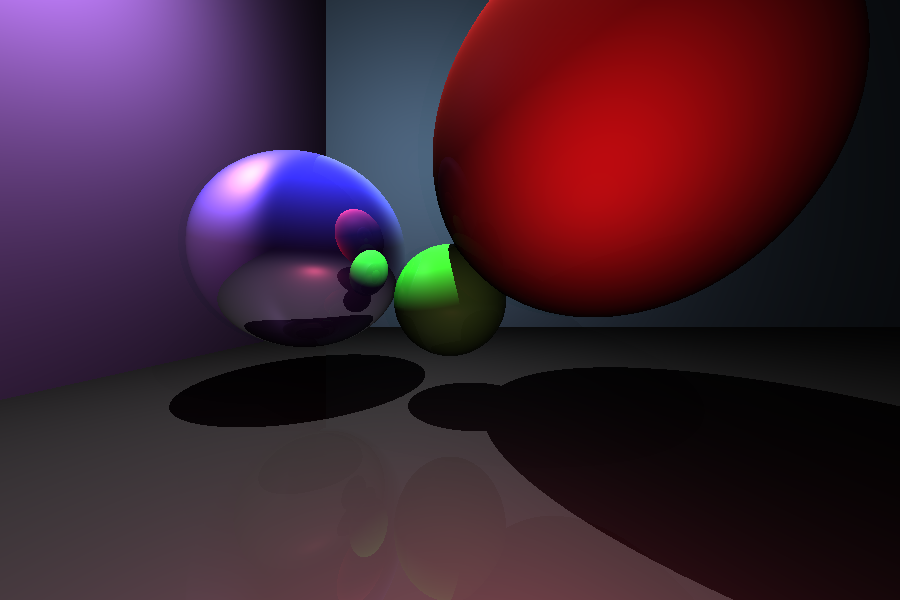
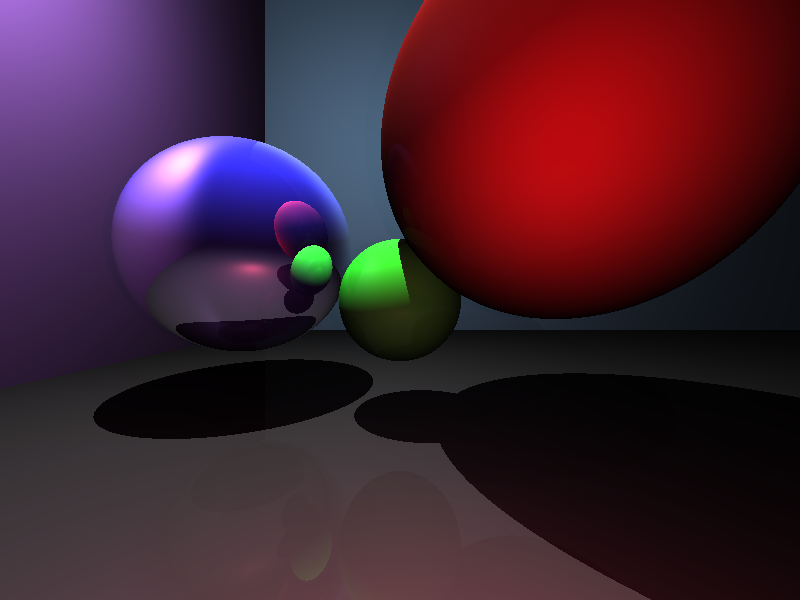
Added camera positioning

diff --git a/src/main/java/ca/retrylife/ics4u/rayzor/Scene.java b/src/main/java/ca/retrylife/ics4u/rayzor/Scene.java
@@ -25,7 +25,9 @@ public class Scene {
 
     // Scene sizing
     public Dimension size;
-    public double fov;
+
+    // Rendering camera
+    public Camera camera;
 
     // Scene objects
     ArrayList<SceneObject> objects = new ArrayList<>();
@@ -35,12 +37,12 @@ public class Scene {
      * Create a scene of a specific size with pre-defined objects
      * 
      * @param size    Scene size
-     * @param fov     Scene FOV
+     * @param cam     Scene Camera
      * @param lights  Scene light sources
      * @param objects Renderable objects for scene
      */
-    public Scene(Dimension size, double fov, Light[] lights, SceneObject... objects) {
-        this(size, fov);
+    public Scene(Dimension size, Camera cam, Light[] lights, SceneObject... objects) {
+        this(size, cam);
 
         // Add all objects
         this.objects.addAll(Arrays.asList(objects));
@@ -52,11 +54,11 @@ public class Scene {
      * Create a scene of a specific size with pre-defined objects
      * 
      * @param size    Scene size
-     * @param fov     Scene FOV
+     * @param cam     Scene Camera
      * @param objects Renderable objects for scene
      */
-    public Scene(Dimension size, double fov, SceneObject... objects) {
-        this(size, fov);
+    public Scene(Dimension size, Camera cam, SceneObject... objects) {
+        this(size, cam);
 
         // Add all objects
         this.objects.addAll(Arrays.asList(objects));
@@ -67,13 +69,13 @@ public class Scene {
      * Create a scene of a specific size
      * 
      * @param size Scene size
-     * @param fov  Scene FOV
+     * @param cam  Scene Camera
      */
-    public Scene(Dimension size, double fov) {
+    public Scene(Dimension size, Camera cam) {
 
         // Set locals
         this.size = size;
-        this.fov = fov;
+        this.camera = cam;
 
     }
 

diff --git a/src/main/java/ca/retrylife/ics4u/rayzor/lighting/Ray.java b/src/main/java/ca/retrylife/ics4u/rayzor/lighting/Ray.java
@@ -1,5 +1,6 @@
 package ca.retrylife.ics4u.rayzor.lighting;
 
+import ca.retrylife.ics4u.rayzor.Camera;
 import ca.retrylife.ics4u.rayzor.Scene;
 import ca.retrylife.libvec.Vector3;
 
@@ -42,7 +43,7 @@ public class Ray {
         double aspectRatio = (double) scene.size.getWidth() / (double) scene.size.getHeight();
 
         // Determine FOV adjustment factor
-        double fovAdjustment = Math.tan(Math.toRadians(scene.fov) / 2.0);
+        double fovAdjustment = Math.tan(Math.toRadians(scene.camera.fov) / 2.0);
 
         // Add .5 to our pixel position, and cast to a double. This will cause the ray
         // to pass through the center of the pixel, rather than it's edge
@@ -52,6 +53,10 @@ public class Ray {
         // Convert the scene width from pixels [0-800] to percentage [0.0-1.0]
         double sensorX = pixelCentreX / (double) scene.size.getWidth();
         double sensorY = pixelCentreY / (double) scene.size.getHeight();
+
+        // Adjust sensor coords by the camera pose
+        sensorX += scene.camera.x;
+        sensorY -= scene.camera.y;
 
         // Adjust the sensor
         // Y is now flipped, so positive is up
@@ -63,10 +68,10 @@ public class Ray {
         sensorY *= fovAdjustment;
 
         // Create a direction vector
-        Vector3 directionVector = new Vector3(sensorX, sensorY, -1.0);
+        Vector3 directionVector = new Vector3(sensorX, sensorY, -1.0 + scene.camera.z);
 
         // Return the newly generated ray
-        return new Ray(new Vector3(0, 0, 0), directionVector.normalize());
+        return new Ray(new Vector3(scene.camera.x, scene.camera.y, scene.camera.z), directionVector.normalize());
     }
 
     /**

diff --git a/src/main/java/ca/retrylife/ics4u/rayzor/Camera.java b/src/main/java/ca/retrylife/ics4u/rayzor/Camera.java
@@ -1,0 +1,34 @@
+package ca.retrylife.ics4u.rayzor;
+
+import ca.retrylife.libvec.Vector3;
+
+public class Camera extends Vector3 {
+
+    /**
+     * Camera Field Of View
+     */
+    public double fov;
+
+    /**
+     * Create a camera at [0,0,0]
+     * @param fov Camera FOV
+     */
+    public Camera(double fov) {
+        this(0,0,0, fov);
+    }
+
+    /**
+     * Create a camera at a specific position
+     * 
+     * @param x   X pos
+     * @param y   Y pos
+     * @param z   Z pos
+     * @param fov Camera FOV
+     */
+    public Camera(double x, double y, double z, double fov) {
+        super(x, y, z);
+
+        this.fov = fov;
+    }
+
+}

diff --git a/src/main/java/ca/retrylife/ics4u/rayzor/App.java b/src/main/java/ca/retrylife/ics4u/rayzor/App.java
@@ -17,7 +17,8 @@ public class App implements Runnable {
 
     Scene scene;
 
-    // Balls world
+    // World setting
+    // This can be switched out with any class that implements IScene.
     IScene world = new Balls();
 
     public static void main(String[] args) {
@@ -37,11 +38,10 @@ public class App implements Runnable {
         // 1920 x 1080
         // 4K
         // 16K: 15360 x 8640
-        scene = new Scene(new Dimension(800, 600), 95.0);
+        scene = new Scene(new Dimension(800, 600), new Camera(90.0));
 
         // Build the scene
         world.build(scene);
-        
 
     }
 

diff --git a/src/test/java/ca/retrylife/ics4u/rayzor/SceneTest.java b/src/test/java/ca/retrylife/ics4u/rayzor/SceneTest.java
@@ -21,7 +21,7 @@ public class SceneTest {
     @Test
     public void testCanRender() {
         // Build a scene to render
-        Scene scene = new Scene(new Dimension(800, 600), 90.0);
+        Scene scene = new Scene(new Dimension(800, 600), new Camera(0.0, 0.0, 0.0, 90.0));
 
         // Add a sphere to the scene to be rendered
         Sphere s = new Sphere(new Vector3(0.0, 0.0, -5.0), 1.0, new Material(new Color3(.4f, 1.f, .4f), 0.18));
